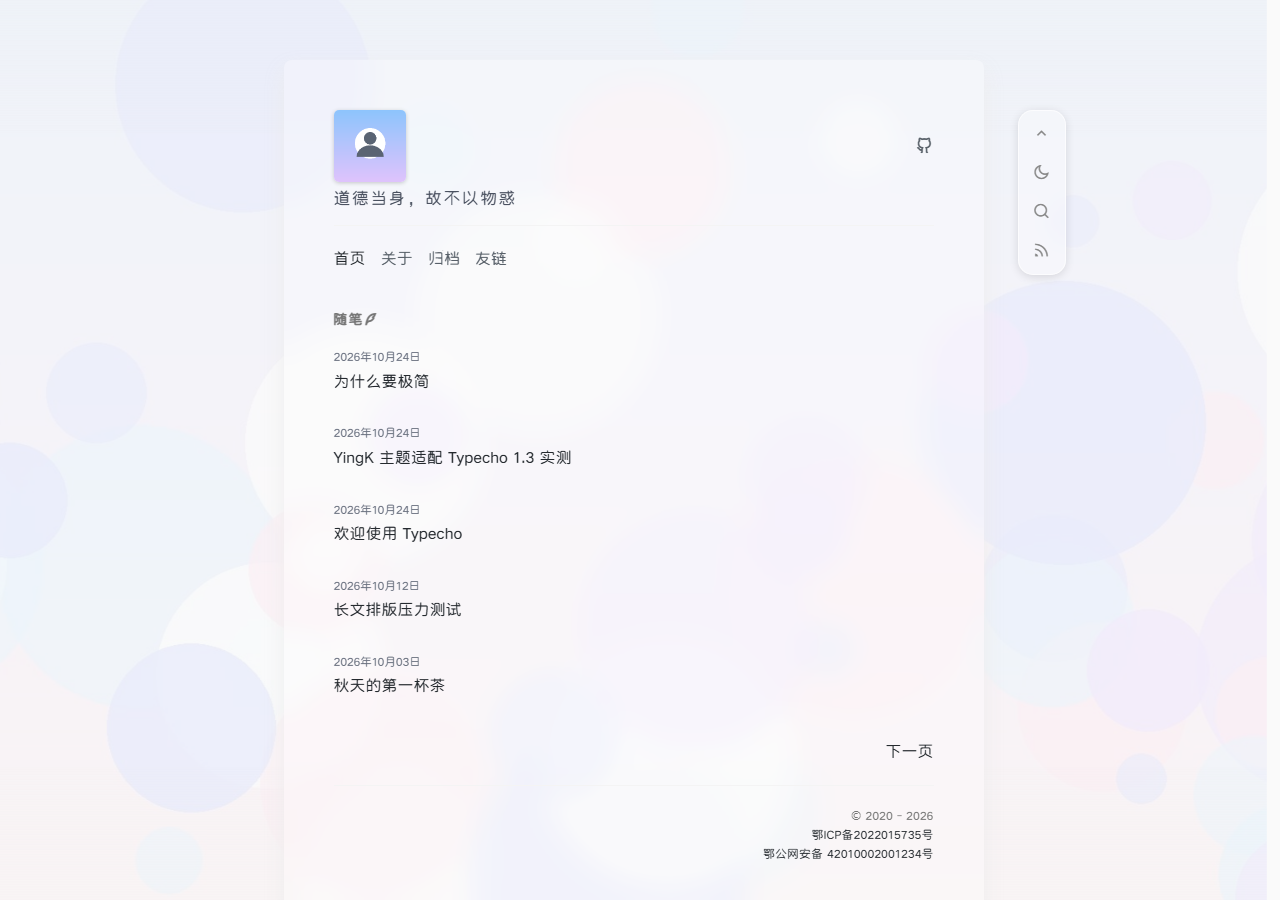
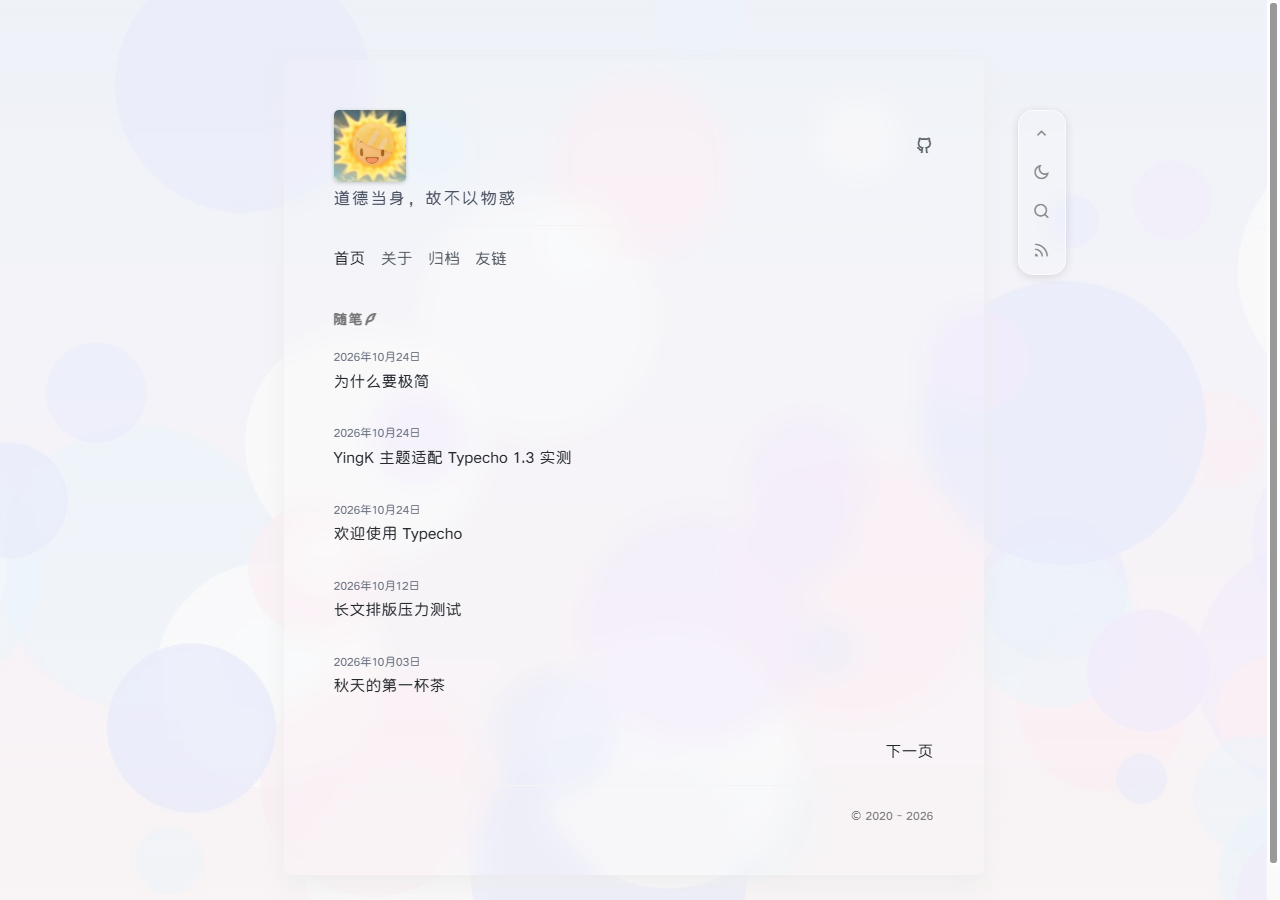
docs: 精简 README 预览与致谢，重拍首页白天/夜间截图
删除文章页预览图、[!NOTE] 块与「为什么是 YingK」章节，移除
「上游 README 鸣谢油佬」表述；首页预览图按 demo 当前字体重拍。

Changed region(s): [[0.9688, 0.0, 1.0, 0.9644], [0.25, 0.1244, 0.3438, 0.2178], [0.5938, 0.9022, 0.7188, 0.9644]]

diff --git a/README.md b/README.md
@@ -18,37 +18,11 @@
 
 ### 首页
 
-![YingK 首页：头像、一言、导航与文章列表](docs/preview-home.png)
-
-### 文章页
-
 | 白天 | 夜间 |
 | --- | --- |
-| ![YingK 文章页白天模式](screenshot.png) | ![YingK 文章页夜间模式](docs/preview-dark.png) |
+| ![YingK 首页白天模式](docs/preview-home.png) | ![YingK 首页夜间模式](docs/preview-home-dark.png) |
 
 YingK 基于 [heysiu/Ying](https://github.com/heysiu/Ying) 二次开发，重做了移动端布局、局部加载、主题设置与阅读细节，没有保留上游的评论功能。无 jQuery；图标、代码高亮与背景本地托管；字体不打包；可选一言 API 会访问 `v1.hitokoto.cn`。
-
-> [!NOTE]
-> **状态**：个人维护 · Typecho 1.2.1+（1.3.0 实测）· 最近验证 2026-10
->
-> **刻意不做**：评论、侧栏、用户系统
->
-> **许可边界**：本仓库新增/修改代码为 MIT；上游 Ying 未声明许可证，商业或闭源再分发前请先确认上游授权。
-
-## 为什么是 YingK
-
-YingK 不是功能型 CMS 主题，它把预算放在“读”这件事上：
-
-- **单栏、无评论、无侧栏**：阅读时没有侧栏、评论区和用户系统打断。
-- **内容局部加载**：站内跳转只替换内容区，前进/后退恢复滚动位置，焦点回到新页面标题。
-- **主题包轻量**：字体不打包；默认读取后台字体库中的本地字体，未选择时使用系统字体；鸿蒙 CDN 与自定义地址可选。图标、代码高亮与背景仍在主题内。
-- **配置克制**：头像、一言、字体、背景、卡片透明度、联系方式、友链、备案都在后台完成，不引入页面构建器。
-
-**适合**：想要安静阅读、愿意自己维护 Typecho 的个人站点。
-
-**不适合**：需要评论、侧栏、复杂页面构建器或多人协作的站点。
-
-**代价**：主题包本身不含字体，约 1.4MB；默认使用字体库中选中的本地字体（未选择时使用系统字体），首屏只加载该文件。切换到鸿蒙 CDN 时会额外下载约 5.4MB 的完整中文字体；系统字体模式不加载字体文件。`font-display: swap` 不阻塞文字显示。具体见[兼容性与性能](#兼容性与性能)。
 
 ## 快速开始
 
@@ -140,11 +114,11 @@ git clone https://github.com/yiktt/YingK.git YingK
 
 字体不随主题分发。默认使用站点本地字体；鸿蒙 CDN 是可选来源；后台上传的字体由站点管理员自行提供，保存在 `usr/uploads/fonts`，不属于本仓库。上传前请确认字体授权允许你的站点使用。
 
-原主题 **Ying** 的归属以上游仓库为准：[heysiu/Ying](https://github.com/heysiu/Ying)。该仓库所有者为 [heysiu](https://github.com/heysiu)（GitHub 资料名 Siu），上游 [README](https://github.com/heysiu/Ying/blob/main/README.md#L11) 鸣谢油佬。原仓库未声明许可证。本项目保留上游仓库信息，原始主题的设计与素材版权归其原作者及贡献者所有；如需将原主题部分用于闭源或商业再分发，请先取得上游作者的明确授权。
+原主题 **Ying** 的归属以上游仓库为准：[heysiu/Ying](https://github.com/heysiu/Ying)。该仓库所有者为 [heysiu](https://github.com/heysiu)（GitHub 资料名 Siu）。原仓库未声明许可证。本项目保留上游仓库信息，原始主题的设计与素材版权归其原作者及贡献者所有；如需将原主题部分用于闭源或商业再分发，请先取得上游作者的明确授权。
 
 ## 致谢
 
-- 原主题：[heysiu/Ying](https://github.com/heysiu/Ying)，上游 README 鸣谢油佬
+- 原主题：[heysiu/Ying](https://github.com/heysiu/Ying)
 - 字体：HarmonyOS Sans SC Medium（可选鸿蒙 CDN 来源；Copyright Huawei Device Co., Ltd.，HarmonyOS Fonts License Agreement）
 - 图标：[Remix Icon](https://remixicon.com/)（Remix Icon License 1.0）
 - 代码高亮：[highlight.js](https://highlightjs.org/) v11.11.1（BSD-3-Clause）
